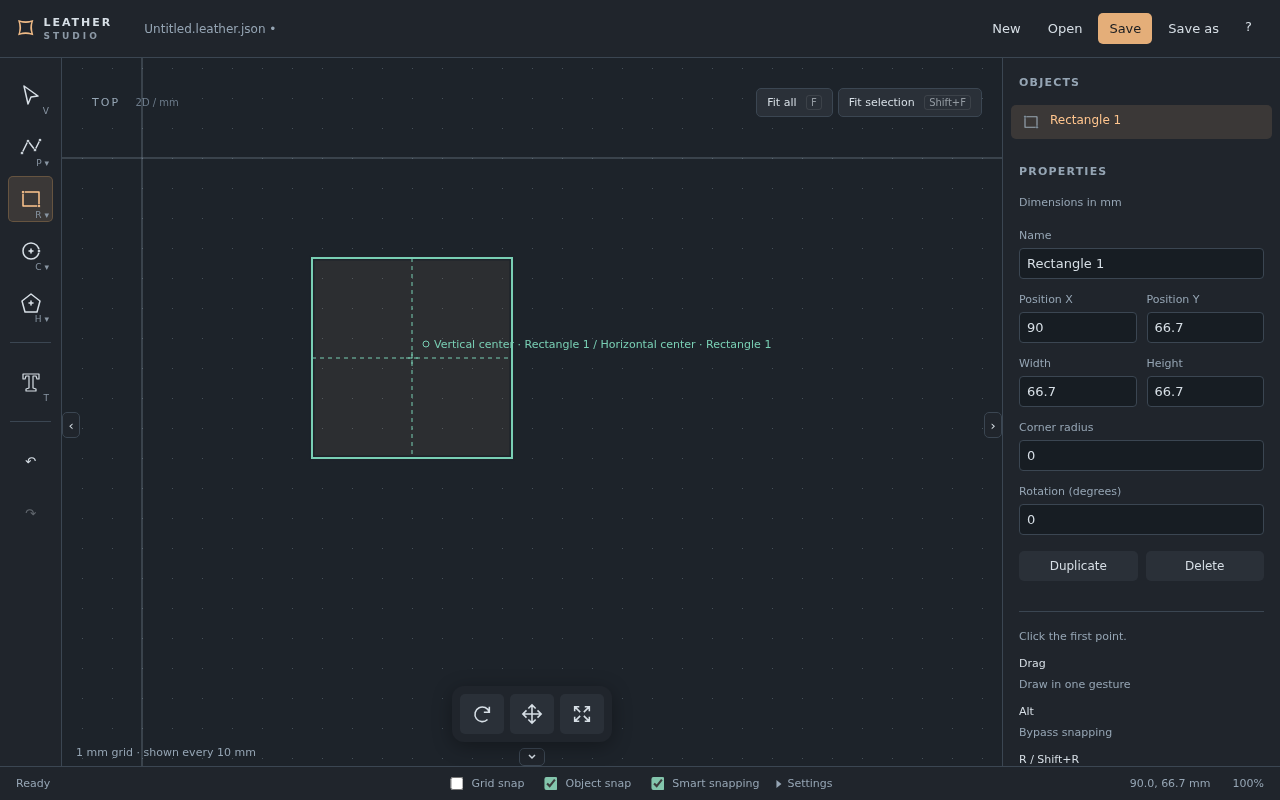
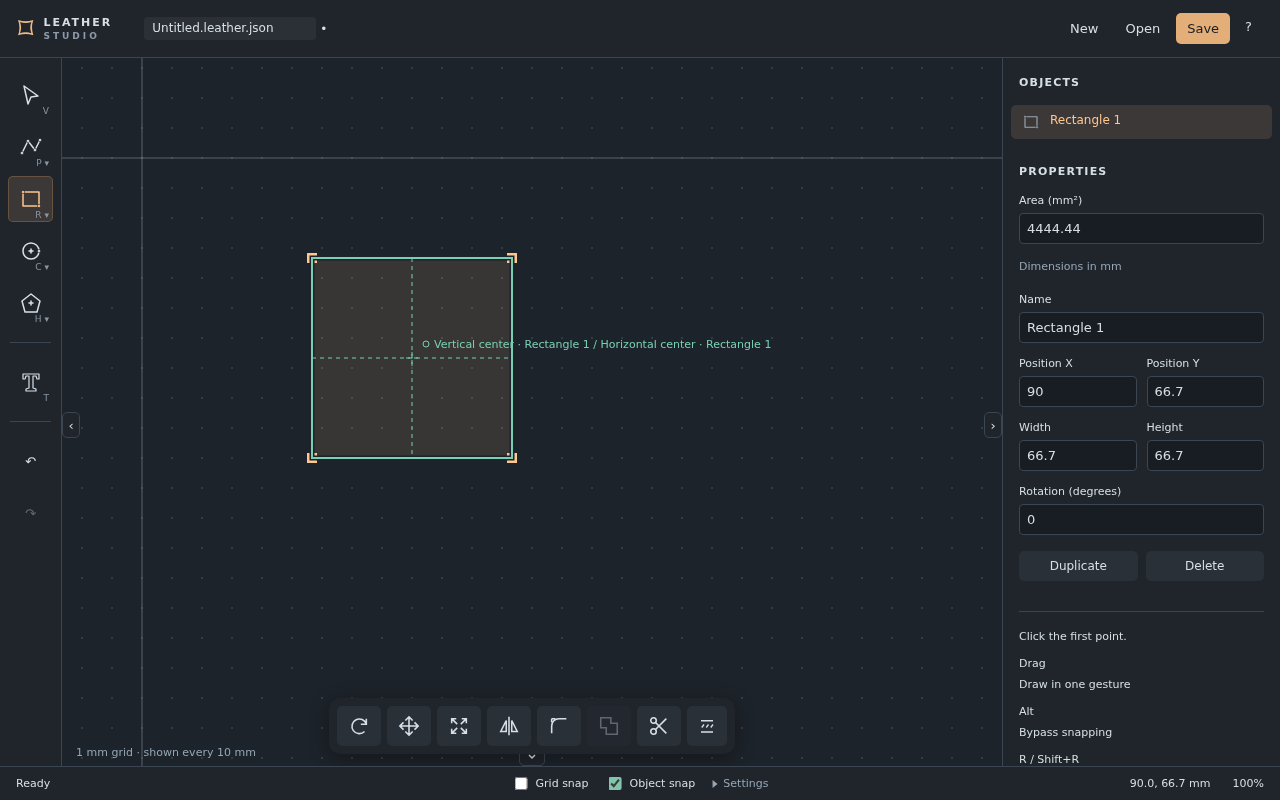
Combine object and alignment snapping controls

diff --git a/src/editor/controller.ts b/src/editor/controller.ts
@@ -338,7 +338,6 @@ export class Controller {
   snapTarget: Point | null = null;
   snapKind: SnapKind | null = null;
   pointerInside = false;
-  smart = true;
   smartGuides: SmartGuide[] = [];
   grid = true;
   objects = true;
@@ -365,7 +364,7 @@ export class Controller {
   constructor() {
     try {
       const p = JSON.parse(localStorage.getItem("leather-ui") ?? "{}");
-      for (const key of ["grid", "objects", "smart", "rulers"] as const)
+      for (const key of ["grid", "objects", "rulers"] as const)
         if (typeof p[key] === "boolean") this[key] = p[key];
       if (["world", "local"].includes(p.transformOrientation))
         this.transformOrientation = p.transformOrientation;
@@ -377,13 +376,12 @@ export class Controller {
     } catch {}
   }
   preferences() {
-    if (!this.smart) this.smartGuides = [];
+    if (!this.objects) this.smartGuides = [];
     try {
       localStorage.setItem(
         "leather-ui",
         JSON.stringify({
           transformOrientation: this.transformOrientation,
-          smart: this.smart,
           grid: this.grid,
           objects: this.objects,
           gridSize: this.gridSize,
@@ -431,7 +429,6 @@ export class Controller {
       this.selected.join(","),
       this.pending.length,
       !!this.guideDrag,
-      this.smart,
       this.grid,
       this.objects,
       this.gridSize,
@@ -1644,7 +1641,7 @@ export class Controller {
             this.snapTarget = candidate.point;
             this.snapKind = candidate.kind;
             this.smartGuides =
-              this.smart && candidate.kind === "center"
+              candidate.kind === "center"
                 ? (["x", "y"] as const).map((axis) => ({
                     axis,
                     coordinate: candidate.point[axis],
@@ -1700,7 +1697,7 @@ export class Controller {
         return q;
       }
     }
-    if (this.smart) {
+    if (this.objects) {
       const result = smartSnap(
         p,
         this.document.shapes.filter(
@@ -1919,7 +1916,7 @@ export class Controller {
         ];
         this.snapKind = nearest.candidate.kind;
       } else {
-        const result = this.smart
+        const result = this.objects
           ? smartSnap(raw, this.document.shapes, tolerance)
           : null;
         const guide = result?.guides.find((v) => v.axis === axis);

diff --git a/src/editor/controller.test.ts b/src/editor/controller.test.ts
@@ -856,7 +856,6 @@ test("every grouped mode cycles both ways and remembers its last variant", async
 
 test("object center snap shows both reference axes and clears on bypass", () => {
   const e = editor();
-  e.smart = true;
   e.objects = true;
   e.document.shapes = [
     {
@@ -878,7 +877,11 @@ test("object center snap shows both reference axes and clears on bypass", () => 
   ]);
   e.snap({ x: 30, y: 20 }, true);
   expect(e.smartGuides).toEqual([]);
-  e.smart = false;
+  expect(e.snap({ x: 30.1, y: 60 })).toEqual({ x: 30, y: 60 });
+  expect(e.smartGuides).toHaveLength(1);
+  e.objects = false;
+  e.grid = false;
+  expect(e.snap({ x: 30.1, y: 60 })).toEqual({ x: 30.1, y: 60 });
   e.snap({ x: 30, y: 20 });
   expect(e.smartGuides).toEqual([]);
 });
@@ -942,7 +945,7 @@ test("Shift release refreshes rectangle without pointer movement", () => {
 test("ruler guideline persists after release with final modifier increments", async () => {
   const e = editor();
   e.rulers = true;
-  e.smart = false;
+  e.objects = false;
   e.width = 800;
   e.height = 600;
   e.pan = { x: 0, y: 0 };
@@ -965,7 +968,6 @@ test("ruler guideline persists after release with final modifier increments", as
 
 test("guideline snaps explain object alignment and clear feedback", () => {
   const e = editor();
-  e.smart = false;
   e.objects = true;
   e.zoom = 1;
   e.pan = { x: 0, y: 0 };
@@ -996,7 +998,7 @@ test.each(["x", "y"] as const)(
   (axis) => {
     const e = editor();
     e.setMode("rectangle");
-    e.smart = false;
+    e.objects = false;
     e.rulers = true;
     e.pan = { x: 0, y: 0 };
     e.zoom = 1;

diff --git a/tests/smart-snapping.spec.ts b/tests/smart-snapping.spec.ts
@@ -1,13 +1,13 @@
 import { expect, test } from "@playwright/test";
 
-test("smart snapping persists and shows reference guides while drawing", async ({ page }, info) => {
+test("object snapping persists and shows reference guides while drawing", async ({ page }, info) => {
   await page.goto("/");
-  const smart = page.getByRole("checkbox", { name: "Smart snapping", exact: true });
-  await expect(smart).toBeChecked();
-  await smart.uncheck();
+  const objects = page.getByRole("checkbox", { name: "Object snap", exact: true });
+  await expect(objects).toBeChecked();
+  await objects.uncheck();
   await page.reload();
-  await expect(smart).not.toBeChecked();
-  await smart.check();
+  await expect(objects).not.toBeChecked();
+  await objects.check();
   await page.getByRole("checkbox", { name: "Grid snap", exact: true }).uncheck();
   await page.getByRole("button", { name: "Rectangle (R)", exact: true }).click();
   const canvas = page.getByLabel("Pattern drawing canvas");
@@ -17,6 +17,9 @@ test("smart snapping persists and shows reference guides while drawing", async (
   const box = (await canvas.boundingBox())!;
   await page.mouse.move(box.x + 350, box.y + 300);
   await page.screenshot({ path: info.outputPath("smart-center-guides.png") });
-  await smart.uncheck();
-  await expect(smart).not.toBeChecked();
+  if (info.project.name === "chromium") {
+    await page.screenshot({ path: "public/manual/images/smart-snapping.png" });
+  }
+  await objects.uncheck();
+  await expect(objects).not.toBeChecked();
 });

diff --git a/src/editor/renderer.ts b/src/editor/renderer.ts
@@ -427,7 +427,7 @@ export function attachRenderer(canvas: HTMLCanvasElement, editor: Controller) {
           ["move", "scale", "vertex"].includes(editor.gesture.kind)
         ? editor.snapTarget
         : null;
-    if ((editor.smart || editor.guideDrag) && editor.snapTarget) {
+    if ((editor.objects || editor.guideDrag) && editor.snapTarget) {
       ctx.save();
       ctx.strokeStyle = color("preview");
       ctx.lineWidth = 1 / z;
@@ -528,7 +528,7 @@ export function attachRenderer(canvas: HTMLCanvasElement, editor: Controller) {
         ctx.lineTo(point.x, point.y + 10);
       }
       ctx.stroke();
-      const smartLabel = editor.smart
+      const smartLabel = editor.objects
         ? editor.smartGuides
             .map((guide) => {
               const name =

diff --git a/src/vue/App.vue b/src/vue/App.vue
@@ -310,7 +310,7 @@ onMounted(() => {
           />
           Grid snap
         </label>
-        <label>
+        <label title="Snap to object points and align with object edges and centers">
           <input
             type="checkbox"
             :checked="e.objects"
@@ -320,17 +320,6 @@ onMounted(() => {
             "
           />
           Object snap
-        </label>
-        <label>
-          <input
-            type="checkbox"
-            :checked="e.smart"
-            @change="
-              editor.smart = ($event.target as HTMLInputElement).checked;
-              editor.preferences();
-            "
-          />
-          Smart snapping
         </label>
         <Settings />
       </div>

diff --git a/docs/manual/measurements.md b/docs/manual/measurements.md
@@ -6,11 +6,11 @@ While constructing a shape, Tab enters available dimension fields. Type a value 
 
 Hold Ctrl to display selected edge lengths. Click a measurement to edit it, or use Tab when the fields are visible. Enter applies the edit; Esc leaves the field.
 
-Grid snap, Object snap, and Smart snapping are independent footer controls. Smart snapping defaults to enabled and remembers your preference. It aligns points with other objects’ world-axis bounding edges and horizontal and vertical centers within eight screen pixels. The reference object is highlighted with a contrasting outline. Dashed guides stop at the reference object’s world-aligned bounds; center alignment displays the corresponding horizontal or vertical axis. Snapping to the object’s center point highlights both axes. Labels identify the alignment and reference object. Object snap takes priority, followed by Smart snapping and Grid snap. Grid spacing is in Settings. Hold Alt to bypass positional snapping while drawing, moving, or placing a pivot.
+Grid snap and Object snap are independent footer controls. Object snap defaults to enabled and remembers your preference. It snaps to exact object features such as corners, endpoints, midpoints, and centers, and also aligns points with other objects’ world-axis bounding edges and horizontal and vertical centers within eight screen pixels. The reference object is highlighted with a contrasting outline. Dashed guides stop at the reference object’s world-aligned bounds; center alignment displays the corresponding horizontal or vertical axis. Snapping to the object’s center point highlights both axes. Labels identify the alignment and reference object. Exact object features take priority over alignment, followed by Grid snap. Grid spacing is in Settings. Hold Alt to bypass positional snapping while drawing, moving, or placing a pivot.
 
 Properties exposes positions, dimensions, circle and arc radii, rotation, and path vertices. Affine-transformed radii labelled local refer to the shape’s local dimensions. Edit corner radii with the [Corner radius tool](#transforms), using its corner-radius and all-corners fields. Corner radius fields are not shown in Properties.
 
-Object snap also offers the average position of all polygon corners as a center point. The repeated closing corner is counted once; rounded polygons use their original corners. Center-point snapping shows both axes when Smart snapping is enabled.
+Object snap also offers the average position of all polygon corners as a center point. The repeated closing corner is counted once; rounded polygons use their original corners. Center-point snapping shows both axes when Object snap is enabled.
 
 ![Both center axes highlighted on the reference rectangle](/manual/images/smart-snapping.png)
 
@@ -22,7 +22,7 @@ Edge measurements follow the edge angle with a visible gap. Center rectangle wid
 
 ![Separate center rectangle dimensions](/manual/images/center-rectangle-measurements.png)
 
-Enable X/Y rulers in Settings. Drag from the top ruler for a horizontal guideline or the left ruler for a vertical guideline. With Select, drag a guideline to move it; drop it onto a ruler to remove it. Guidelines are saved with the project and support undo/redo. Placement uses 1 mm steps, Ctrl 10 mm, and Shift 5 mm (Ctrl takes precedence). Enabled Object snapping takes priority over Smart snapping, followed by these increments. Alt bypasses both snapping and increments. Object snap makes guidelines available as alignment targets. Esc cancels a guideline drag.
+Enable X/Y rulers in Settings. Drag from the top ruler for a horizontal guideline or the left ruler for a vertical guideline. With Select, drag a guideline to move it; drop it onto a ruler to remove it. Guidelines are saved with the project and support undo/redo. Placement uses 1 mm steps, Ctrl 10 mm, and Shift 5 mm (Ctrl takes precedence). With Object snap enabled, exact object features take priority over alignment, followed by these increments. Alt bypasses both snapping and increments. Object snap makes guidelines available as alignment targets. Esc cancels a guideline drag.
 
 The guideline coordinate appears beside the pointer while dragging and stays inside the drawing area.
 
